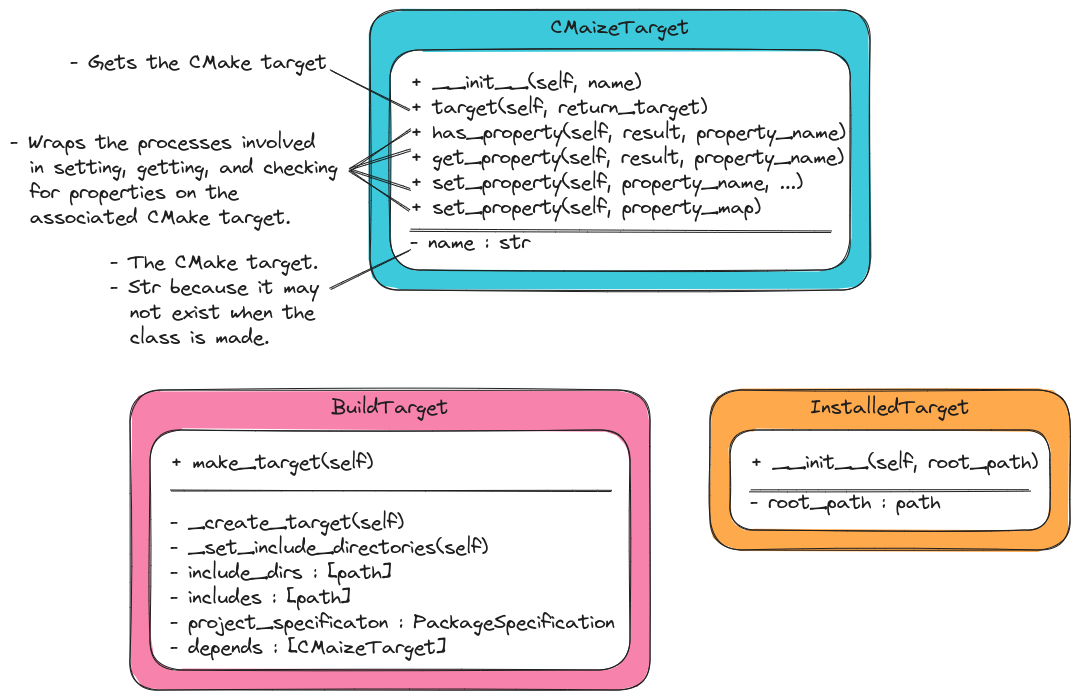
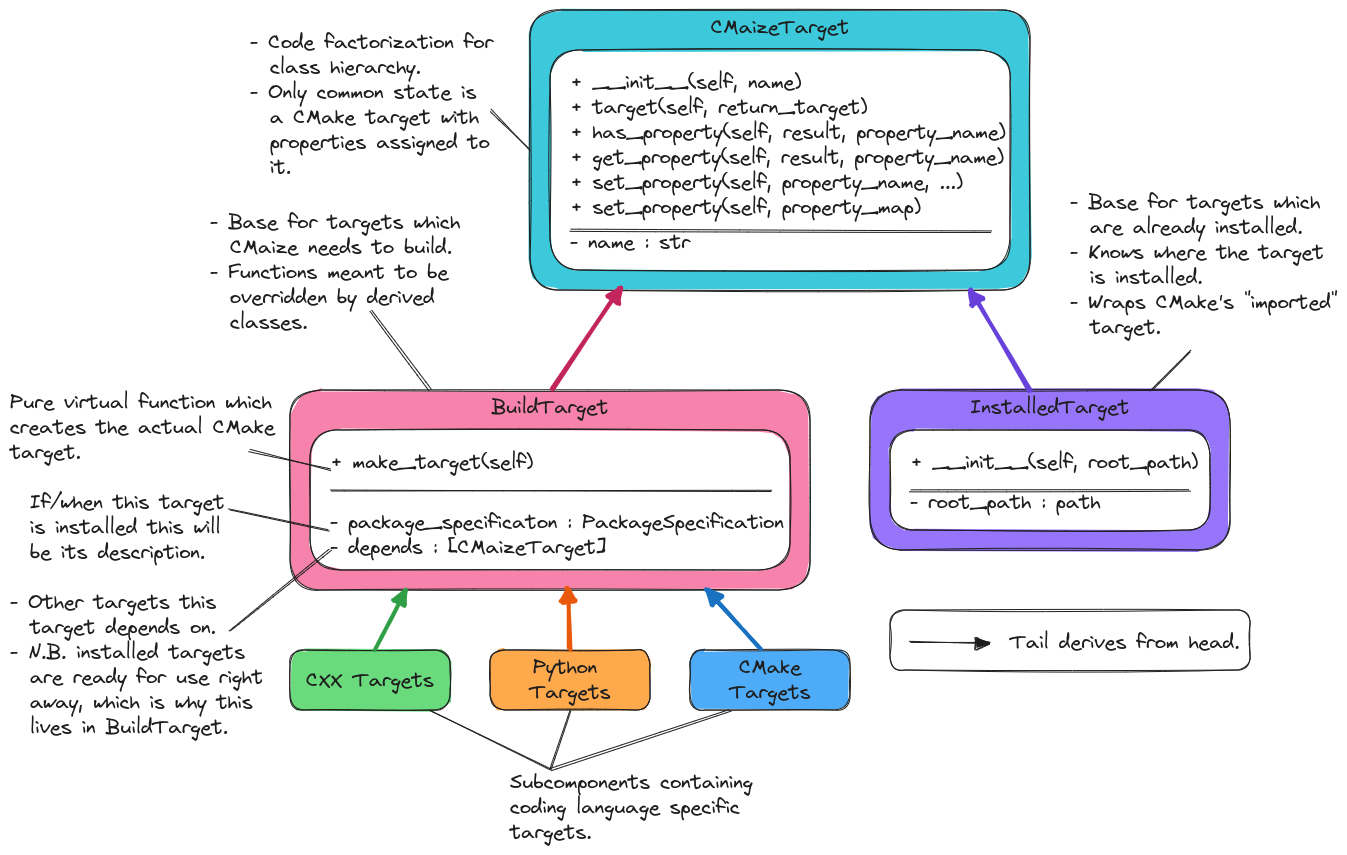
backup [skip ci]

diff --git a/docs/src/developer/design/classes/target.rst b/docs/src/developer/design/classes/target.rst
@@ -18,7 +18,42 @@
 Designing CMaize's Target Component
 ###################################
 
-TODO: Write me!!!
+This page records the design process of CMaize's target component.
+
+.. _tc_what_is_cmaizes_target_component:
+
+**********************************
+What is CMaize's Target Component?
+**********************************
+
+CMaize's target component contains classes which represent traditional CMake
+:term:`build targets<build target>`. Hence CMaize's target component can be seen
+as the result of mapping CMake's functional approach to managing targets to
+CMaize's object-oriented approach.
+
+*****************************************
+Why Do We Need CMaize's Target Component?
+*****************************************
+
+Since CMake already provides native support for targets, arguably the more
+pertinent question is: "Why do we need an object-oriented target component?".
+The original motivation for an object-oriented target component was to manage
+complexity, while still providing a user-friendly interface. As the length of
+the CMake `documentation <https://tinyurl.com/535scwpn>`__ for targets suggests,
+there are many considerations which go into properly setting up a CMake target
+and using that target throughout the build system. CMaize targets are designed
+to manage those considerations via a separation of concerns. For example,
+users creating a target for a C++ executable, via the ``CXXExecutable`` class
+are only exposed to target properties which are relevant for executables,
+whereas the native CMake API additionally exposes many other considerations
+including: libraries, object libraries, and alias targets.
+
+Another motivation for CMaize's target component is to extend CMake targets to
+other coding languages. Out of the box, CMake targets are primarily meant for
+use with C/C++ targets. Modern C/C++ projects often contain pieces written in
+other coding languages, notably Python. Being able to treat these additional
+project pieces with a unified build system decreases the project management
+burden since maintainers do not need to learn multiple build systems.
 
 *******************************
 Target Component Considerations
@@ -30,11 +65,42 @@ language specific
    :ref:`designing_cmaizes_add_target_functions` required the language-specific
    aspects of target creation to be managed by the various target classes.
 
+.. _tc_language_agnostic:
+
 language agnostic
-   While perhaps seemingly at odds with :ref:`tc_language_specific`, we also
-   note that from the perspective of CMake and CMaize the language of the target
-   is really only relevant in building the target.
+   While perhaps seemingly at odds with :ref:`tc_language_specific`, we
+   note that from the perspective of CMake, and CMaize, targets serve primarily
+   as nodes in a :term:`DAG`. The language of the target is not relevant for
+   assembling the DAG and it should thus be possible to work with already
+   created targets in a language agnostic manner.
+
+.. _tc_dependency_tracking:
 
 dependency tracking
    :ref:`designing_cmaizes_cmaizeproject_component` established that each
    target will track the targets it depends on.
+
+   - As a corollary we note that tracking dependencies is used for establishing
+     build order.
+   - For a working installed package we know that all dependencies have already
+     been satisfied (otherwise the package would not currently be working).
+     Downstream consumers of a working installed package do not need to track
+     the package's dependencies because the package already does this for them.
+
+.. _tc_cmake_based_targets:
+
+cmake based targets
+   Modern CMake is target-based. Since CMaize relies on CMake, CMaize will need
+   to track the CMake targets which correspond to a given CMaize target.
+
+***********************************
+Design of CMaize's Target Component
+***********************************
+
+.. _fig_cmaize_targets:
+
+.. figure:: assets/targets.png
+   :align: center
+
+   The overall architecture of CMaize's target component. Also shown are the
+   API details of the language agnostic pieces of the component.

diff --git a/docs/src/background/terminology.rst b/docs/src/background/terminology.rst
@@ -115,6 +115,15 @@ Computer Science Terminology
       A Command Line Interface (CLI) is a mechanism for a user to interact with
       a program in a traditional terminal environment.
 
+   DAG
+      A directed acyclic graph (DAG) is, as the name implies, a mathematical
+      graph whose nodes are connected with one-way edges such that there are
+      no loops. One of the most common representations for describing control
+      flow/dependency is with a DAG. For control flow, nodes represent code
+      units and the directions of the edges represent which code unit calls the
+      other. For dependencies, nodes represent objects and the directions of the
+      edges represent which objects a particular object needs.
+
    DRY
       Short for "Don't Repeat Yourself", the DRY principle stipulates that it
       is better to introduce an abstraction for getting/setting state than it
